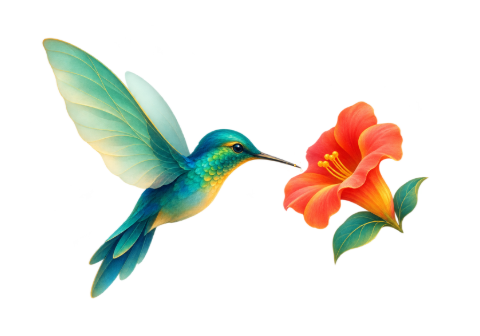
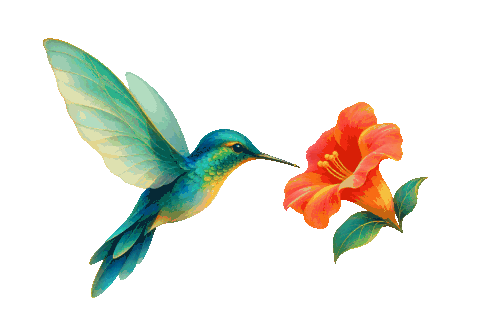
Use the exact screenshot export for the hummingbird comparison

Changed region(s): [[0.125, 0.1488, 0.9062, 0.8929], [0.0938, 0.0893, 0.1562, 0.2381]]

diff --git a/README.ja.md b/README.ja.md
@@ -8,7 +8,7 @@
 
 ![Any2WebP で青緑のハチドリの GIF と可逆 WebP の書き出し結果を比較](docs/assets/any2webp-ja.png)
 
-*アプリの画面では、ハチドリの GIF を可逆 WebP に書き出しています。*
+*下の比較には、画面にある GIF と可逆 WebP を使っています。*
 
 ## 3 ステップで変換
 
@@ -34,13 +34,13 @@
 | 容量 | 可逆・非可逆圧縮が選べ、容量を抑えやすい | 単純な図に向く。複雑な画像では容量や色の段差が目立つことがある |
 | 主な用途 | ウェブ向け、透過素材、動画の一部 | GIF のみ対応するサービスや従来のソフトウェア |
 
-**「青緑のハチドリ」** は、どちらも同じ 60 フレームを使った 3 秒のループです。
+Any2WebP で **「青緑のハチドリ」** の GIF を可逆 WebP に書き出し、60 フレーム、透明な背景、3 秒のループを維持しています。
 
-| [GIF · 1,058.0 KiB](docs/assets/hummingbird-loop.gif) | [WebP · 909.4 KiB](docs/assets/hummingbird-loop.webp) |
+| [GIF · 1.03 MiB](docs/assets/hummingbird-loop.gif) | [WebP · 731.3 KiB](docs/assets/hummingbird-loop.webp) |
 | --- | --- |
 | <img src="docs/assets/hummingbird-loop.gif" width="230" alt="青緑のハチドリとコーラルオレンジの花、GIF 版"> | <img src="docs/assets/hummingbird-loop.webp" width="230" alt="青緑のハチドリとコーラルオレンジの花、WebP 版"> |
 
-この例の非可逆 WebP は羽の半透明を保ち、GIF より **148.6 KiB（14.0%）** 小さくなりました。[公式サイトで比較を再生](https://ixiehao.github.io/Any2WebP/ja/#formats) · [Google の WebP FAQ](https://developers.google.com/speed/webp/faq)
+この例の WebP は GIF より **326.7 KiB（30.9%）** 小さくなりました。[公式サイトで比較を再生](https://ixiehao.github.io/Any2WebP/ja/#formats) · [Google の WebP FAQ](https://developers.google.com/speed/webp/faq)
 
 ## 静止画の形式を選ぶ
 

diff --git a/README.md b/README.md
@@ -8,7 +8,7 @@ English · [简体中文](README.zh-CN.md) · [日本語](README.ja.md)
 
 ![Any2WebP comparing the Teal Hummingbird GIF and its lossless WebP export side by side](docs/assets/any2webp-en.png)
 
-*The app screenshot shows a lossless WebP export of the Teal Hummingbird GIF.*
+*The GIF and lossless WebP shown here are the files used in the comparison below.*
 
 ## Convert in three steps
 
@@ -34,13 +34,13 @@ Conversion runs locally, and WebP encoding uses the bundled libwebp. Large anima
 | File size | Lossy and lossless options, often smaller | Works well for simple graphics, but complex scenes can take more space or show banding |
 | Good for | Web animations, transparent graphics, and video clips | GIF-only platforms and older software |
 
-**Teal Hummingbird** uses the same 60 frames in both formats, with a 3-second loop.
+Any2WebP exported **Teal Hummingbird** from GIF to lossless WebP, preserving its 60 frames, transparent background, and 3-second loop.
 
-| [GIF · 1,058.0 KiB](docs/assets/hummingbird-loop.gif) | [WebP · 909.4 KiB](docs/assets/hummingbird-loop.webp) |
+| [GIF · 1.03 MiB](docs/assets/hummingbird-loop.gif) | [WebP · 731.3 KiB](docs/assets/hummingbird-loop.webp) |
 | --- | --- |
 | <img src="docs/assets/hummingbird-loop.gif" width="230" alt="Teal hummingbird and coral-orange flower, GIF"> | <img src="docs/assets/hummingbird-loop.webp" width="230" alt="Teal hummingbird and coral-orange flower, WebP"> |
 
-The lossy WebP keeps the wings partially transparent and is **148.6 KiB (14.0%) smaller** in this example. [Play the comparison on the website](https://ixiehao.github.io/Any2WebP/#formats) · [Google’s animated WebP FAQ](https://developers.google.com/speed/webp/faq)
+The WebP export is **326.7 KiB (30.9%) smaller** in this example. [Play the comparison on the website](https://ixiehao.github.io/Any2WebP/#formats) · [Google’s animated WebP FAQ](https://developers.google.com/speed/webp/faq)
 
 ## Still images: WebP, PNG, or JPG
 

diff --git a/README.zh-CN.md b/README.zh-CN.md
@@ -8,7 +8,7 @@
 
 ![Any2WebP 同步对比青羽蜂鸟的 GIF 原图与无损 WebP 成品](docs/assets/any2webp-zh-CN.png)
 
-*应用截图展示「青羽蜂鸟」GIF 的无损 WebP 导出。*
+*下方对比使用截图中的 GIF 原图和无损 WebP 成品。*
 
 ## 三步完成转换
 
@@ -34,13 +34,13 @@
 | 体积 | 支持有损和无损，通常更省体积 | 简单图形已经够用，复杂画面可能更大或出现色阶 |
 | 适合 | 网页动图、透明贴图、视频片段 | 只收 GIF 的平台、旧软件和兼容性优先的场合 |
 
-**「青羽蜂鸟」** 的两版动图均由同一组 60 帧导出，每 3 秒循环一次。
+Any2WebP 将 **「青羽蜂鸟」** GIF 无损导出为 WebP，保留 60 帧、透明背景和 3 秒无限循环。
 
-| [GIF · 1,058.0 KiB](docs/assets/hummingbird-loop.gif) | [WebP · 909.4 KiB](docs/assets/hummingbird-loop.webp) |
+| [GIF · 1.03 MiB](docs/assets/hummingbird-loop.gif) | [WebP · 731.3 KiB](docs/assets/hummingbird-loop.webp) |
 | --- | --- |
 | <img src="docs/assets/hummingbird-loop.gif" width="230" alt="青羽蜂鸟与珊瑚橙花，GIF 版"> | <img src="docs/assets/hummingbird-loop.webp" width="230" alt="青羽蜂鸟与珊瑚橙花，WebP 版"> |
 
-本例的有损 WebP 保留了翅膀的半透明渐变，体积比 GIF 小 **148.6 KiB（14.0%）**。[在官网播放对比](https://ixiehao.github.io/Any2WebP/zh/#formats) · [Google WebP 动图说明](https://developers.google.com/speed/webp/faq)
+本例的 WebP 成品比 GIF 小 **326.7 KiB（30.9%）**。[在官网播放对比](https://ixiehao.github.io/Any2WebP/zh/#formats) · [Google WebP 动图说明](https://developers.google.com/speed/webp/faq)
 
 ## 静图怎么选：WebP、PNG 和 JPG
 

diff --git a/website/README.md b/website/README.md
@@ -37,7 +37,7 @@ python3 -m http.server 8000 --bind 127.0.0.1 --directory dist/website
 | --- | --- | --- |
 | 应用截图 | [简体中文](../docs/assets/any2webp-zh-CN.png) · [English](../docs/assets/any2webp-en.png) · [日本語](../docs/assets/any2webp-ja.png) | 2480 × 1550 PNG，展示 Any2WebP v0.2.30 的无损转换。以青羽蜂鸟 GIF（1,083,393 字节）为源，导出的 WebP 为 748,866 字节。 |
 | 产品图标 | [Any2WebP 图标](../src-tauri/icons/icon.png) | 1024 × 1024 PNG。 |
-| 动图体积对照 | [青羽蜂鸟 GIF](../docs/assets/hummingbird-loop.gif) · [青羽蜂鸟 WebP](../docs/assets/hummingbird-loop.webp) | 同一组 480 × 336、60 帧的画面，3 秒无限循环。GIF 1,083,393 字节，有损 WebP 931,250 字节。WebP 保留翅膀的半透明渐变。 |
+| 动图体积对照 | [青羽蜂鸟 GIF](../docs/assets/hummingbird-loop.gif) · [无损 WebP](../docs/assets/hummingbird-loop.webp) | 使用截图中的文件。480 × 336，60 帧，3 秒无限循环，保留透明背景。GIF 1,083,393 字节，WebP 748,866 字节，体积减小 30.9%。 |
 | 规格说明 | Apple Silicon，macOS 26.0 或更新版本 | 视频需要 FFmpeg 和 ffprobe。图片转换可直接使用。 |
 | 开源说明 | [MIT 许可证](../LICENSE) · [第三方许可](../NOTICE.md) | 下载与源代码均指向官方 GitHub 仓库。 |
 
